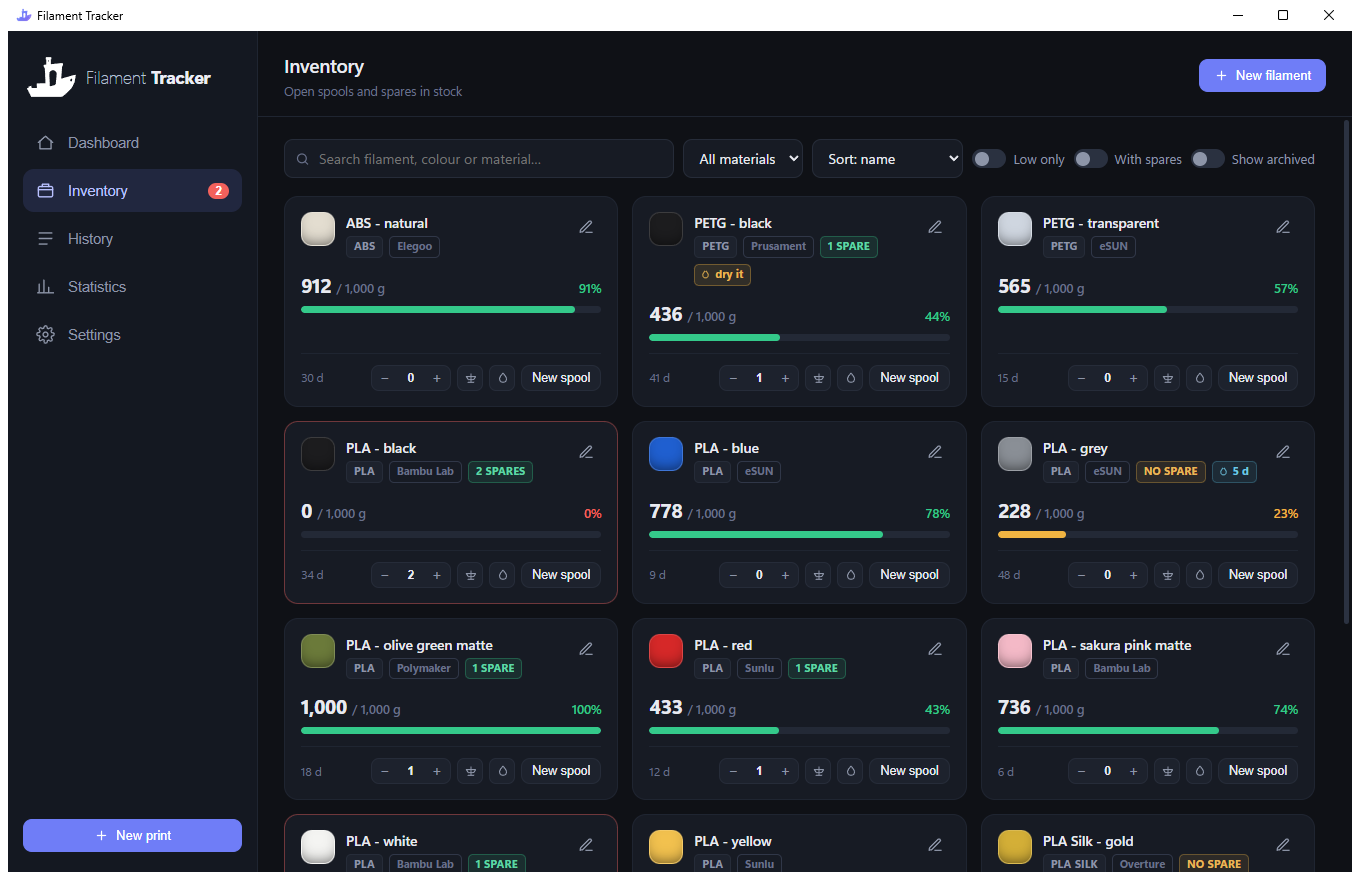
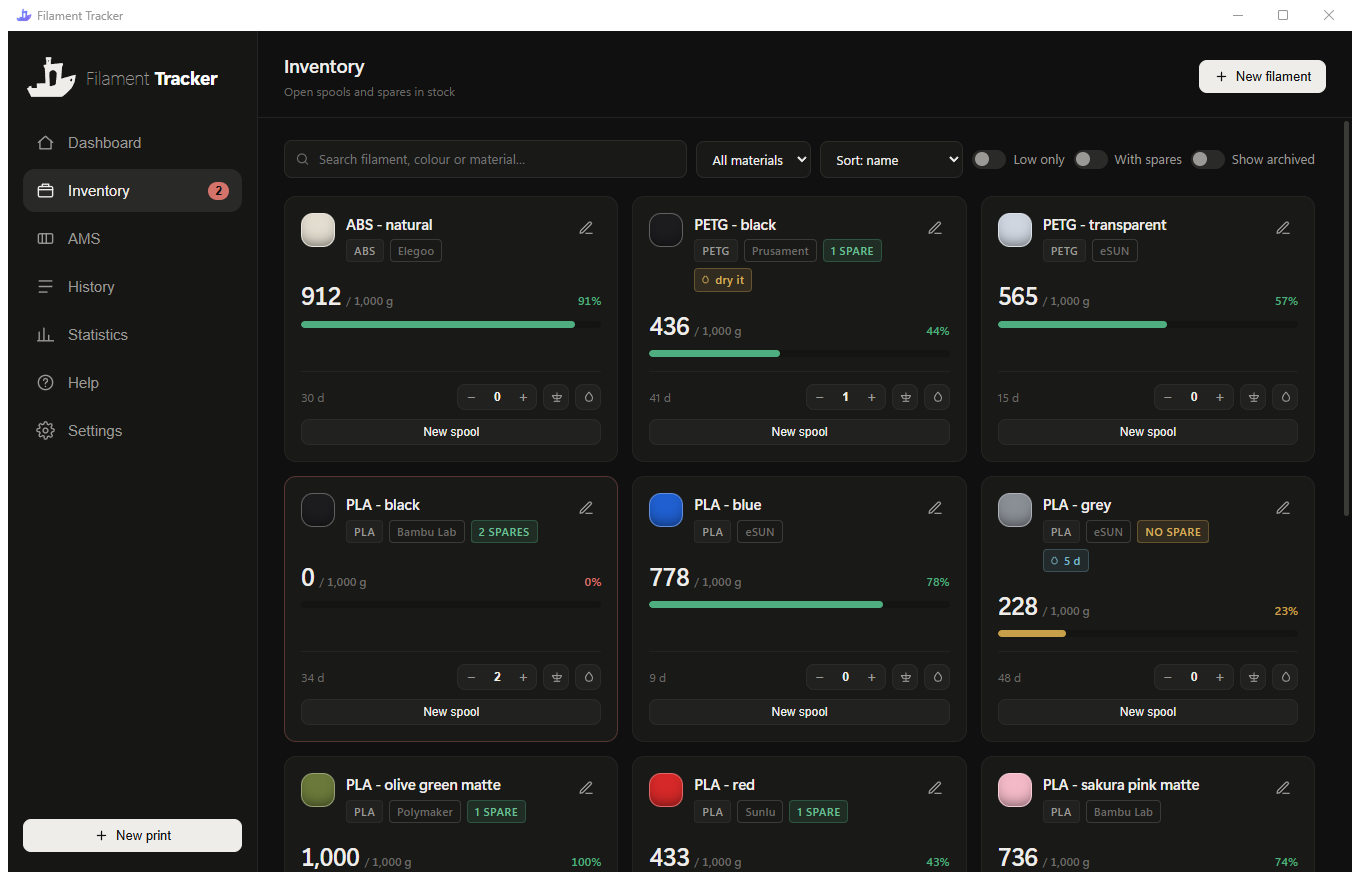
Document the redesign, the AMS tab and Help
Adds the AMS section, a note on Help and on Appearance, and regenerates all
screenshots on the new design -- plus two new ones for the AMS tab and the light
theme, since the manual now describes both.

The screenshot script gained a step for each new tab and one in the light theme,
and tools/make_demo_ams.py loads the sample AMS so that shot has something in it
rather than five empty slots.

diff --git a/tools/make_demo_ams.py b/tools/make_demo_ams.py
@@ -1,0 +1,31 @@
+"""Loads the sample AMS so the screenshot has something in it.
+
+    py tools/make_demo_ams.py data/filaments.db
+
+Four slots and the external holder, picked to show the range: a spool that is
+nearly gone, one that is fine, and one on the side.
+"""
+import os
+import sys
+
+sys.path.insert(0, os.path.dirname(os.path.dirname(os.path.abspath(__file__))))
+
+from core import Store  # noqa: E402
+
+WANT = ["PLA - black", "PLA - red", "PETG - black", "PLA Silk - gold", "PLA - grey"]
+
+
+def main(path):
+    s = Store(path)
+    by_name = {f["name"]: f["id"] for f in s.filaments()}
+    slots = [(1, 1), (1, 2), (1, 3), (1, 4), (0, 1)]
+    n = 0
+    for (unit, slot), name in zip(slots, WANT):
+        if name in by_name:
+            s.set_ams_slot(unit, slot, by_name[name])
+            n += 1
+    print("%d huecos cargados" % n)
+
+
+if __name__ == "__main__":
+    main(sys.argv[1] if len(sys.argv) > 1 else "data/filaments.db")

diff --git a/README.es.md b/README.es.md
@@ -54,6 +54,10 @@ secarlo bastante más a menudo que el PLA.
 - **Estadísticas.** Gramos por mes, filamentos más usados, reparto por material,
   proyectos que más consumen y material desperdiciado.
 - **Importación desde Excel.** Trae tu hoja de cálculo de una sentada.
+- **Pestaña AMS.** Qué rollo hay en cada hueco ahora mismo, con la bobina externa.
+- **Claro y oscuro.** Oscuro por defecto; el claro está pensado aparte, no es el
+  inverso, y cualquiera de los dos puede seguir a Windows.
+- **Ayuda dentro de la app.** La versión corta de este manual, a un clic.
 - **Seis idiomas.** Español, inglés, francés, alemán, portugués e italiano.
 
 ## Descargar
@@ -186,6 +190,19 @@ casilla, siempre que no hayas impreso nada con el rollo puesto: esa bobina vuelv
 al cajón con su marca, su peso y su precio. En cuanto has impreso con ella la
 casilla desaparece, porque el rollo es la ventana en la que se cuentan esos gramos
 y quitarlo los perdería.
+
+### AMS
+
+<img src="docs/ams.png" alt="AMS">
+
+Qué rollo hay en cada hueco ahora mismo. La app no puede preguntárselo a la
+impresora, así que esto lo llevas tú — un clic en un hueco para poner o quitar
+un rollo. Todos los huecos se dibujan tengan algo o no, porque saber que uno
+está libre vale tanto como saber qué hay en él, y la bobina externa siempre está.
+
+Las unidades se eligen en la propia pestaña, de ninguna a cuatro, con cuatro
+huecos cada una. Una bobina solo puede estar en un sitio, así que cargarla en
+otro hueco la saca de donde estaba, y el selector te dice dónde está ya cada una.
 
 ### Registrar una impresión
 
@@ -364,6 +381,20 @@ visor de SQLite vale.
 
 ---
 
+### Ayuda, y qué aspecto tiene
+
+**Ayuda** lleva dentro de la app la versión corta de este manual: el modelo en un
+párrafo, qué hace cada control de la tarjeta, secado, pesar un rollo, Bambu
+Studio, la pestaña AMS y dónde viven los datos.
+
+**Ajustes → Aspecto** cambia entre oscuro, claro o lo que tenga Windows. El
+oscuro es el predeterminado. El claro no es el oscuro invertido: los grises
+llevan un sesgo cálido para que cualquier filamento se asiente sin dominante,
+los colores semánticos se oscurecen para mantener contraste sobre blanco, y la
+elevación se hace con sombra en vez de con una superficie más clara.
+
+<img src="docs/light.png" alt="El tema claro">
+
 ## Para desarrolladores
 
 ### Ejecutar desde el código
@@ -404,7 +435,7 @@ slicer.py      lee las placas que ha laminado Bambu Studio
 build.ps1      empaquetado con PyInstaller
 web/           index.html · style.css · app.js · i18n.js · icon.ico
 brand/         logo en navy, negro y blanco (svg, png, ico)
-tools/         generador del catálogo, datos y laminado de ejemplo, capturas
+tools/         generador del catálogo, datos, laminado y AMS de ejemplo, capturas
 data/          tu base de datos (no está en el repo)
 ```
 

diff --git a/README.md b/README.md
@@ -54,6 +54,10 @@ needs drying more often than PLA.
 - **Statistics.** Grams per month, most used filaments, split by material, hungriest
   projects and wasted material.
 - **Excel import.** Bring across an existing spreadsheet in one go.
+- **AMS tab.** Which spool is in which slot right now, external holder included.
+- **Light and dark.** Dark by default; light is designed on its own rather than
+  inverted, and either can follow Windows.
+- **Help inside the app.** The short version of this manual, a click away.
 - **Six languages.** English, Spanish, French, German, Portuguese and Italian.
 
 ## Download
@@ -184,6 +188,19 @@ there, as long as nothing has been printed from the fitted roll: that spool goes
 back in the drawer with its brand, weight and price intact. Once you have printed
 from it the tick disappears, because the roll is the window those grams are
 counted in and removing it would lose them.
+
+### AMS
+
+<img src="docs/ams.png" alt="AMS">
+
+Which spool is in which slot right now. The app cannot ask the printer, so this
+one is kept by hand — one click on a slot to load or empty it. Every slot is
+drawn whether or not it holds something, because knowing a slot is free is as
+useful as knowing what is in it, and the external spool holder is always there.
+
+Units are set from the tab itself, none to four, four slots each. A spool can
+only be in one place, so loading it somewhere else takes it out of wherever it
+was, and the picker tells you where each one already is.
 
 ### Logging a print
 
@@ -356,6 +373,20 @@ anywhere. To back it up, copy that file. To inspect it, any SQLite browser will 
 
 ---
 
+### Help, and how it looks
+
+**Help** carries the short version of this manual inside the app: the model in a
+paragraph, what each control on a card does, drying, weighing, Bambu Studio, the
+AMS tab and where the data lives.
+
+**Settings → Appearance** switches between dark, light, or whatever Windows is
+set to. Dark is the default. Light is not the dark theme inverted — the greys
+keep a warm cast so a filament of any hue sits on them without a colour cast,
+the semantic colours darken to stay legible on white, and elevation comes from a
+shadow rather than a lighter surface.
+
+<img src="docs/light.png" alt="The light theme">
+
 ## For developers
 
 ### Running from source
@@ -396,7 +427,7 @@ slicer.py      reads the plates Bambu Studio has sliced
 build.ps1      PyInstaller packaging
 web/           index.html · style.css · app.js · i18n.js · icon.ico
 brand/         logo in navy, black and white (svg, png, ico)
-tools/         catalogue builder, demo database and demo slice, screenshots
+tools/         catalogue builder, demo data, demo slice, demo AMS, screenshots
 data/          your database (not in the repo)
 ```
 
